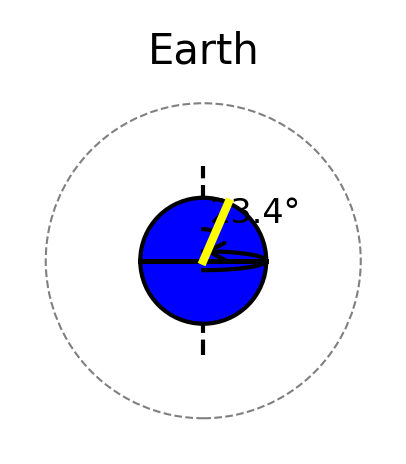
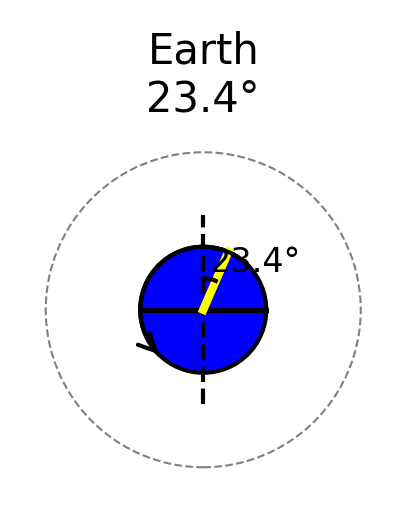
final exam review

diff --git a/python/project/spin_icons.py b/python/project/spin_icons.py
@@ -1,109 +1,179 @@
-""" My code is going to produce different spin icons based on the planets in the solar system
-feedback:
--make a 1.5x 1.5 in version and a 3 x 3 in version (done)
--make a black and white version and color version (done)
---(create and optional parameter for draw planet icon, called used color. that is default to true but when false turns off, uses only gray and black)
--don't include the rotational period
--indicate the planets orbit and the perpendicular from which the planetary tilt is measured
---{change planet orbit line to horizontal dashed line}
--indicate the rotational direction using a curved arrow around the equator
--mark the arc of swept out angle between perp the orbit and the pole, and label the angle there
--include digits to the tenth of the degree (ex: 23.4 degree sign){option, shift, 8 = degree)
---{use comments to identify what each block of code wants}
---{Use AI to get the fancy arrow patch to draw the curved arrow around the rotational axis}
---{Reduce angle to units place}
---{Fix arc marking angle, and rotational axis, so it relies out beyond the circle}
---{Make as simple as possible, avoid the yellow and angle thing, and fix angle label position to not have it be on top}
---{NO yellow or red lines, remove any unused comments/codes}
-
 """
+spin_icons.py
 
-__author__ = ["Betzaida Alcaide", "Maribel Moreno"]
+Final exam project script that visualizes planetary axial tilt, computes statistics,
+fits a quadratic model to tilt data, and solves a characteristic matrix equation.
+
+__author__ = "Betzaida Alcaide", "Maribel Moreno"
+Date: May 12
+"""
 
 import numpy as np
 import matplotlib.pyplot as plt
-
-# Extended planetary data including orbit and angular velocity
-planet_data = {
-    'mars': {'tilt': 25.2, 'a': 227.9e6, 'b': 227.9e6, 'omega': 360 / 24.6},
-    'earth': {'tilt': 23.4, 'a': 149.6e6, 'b': 149.6e6, 'omega': 360 / 24.0},
-    'pluto': {'tilt': 122.5, 'a': 5906.4e6, 'b': 5906.4e6, 'omega': 360 / 153.0},
-}
+from matplotlib.patches import FancyArrowPatch
+from scipy.stats import describe
+from numpy.polynomial.polynomial import polyfit
+from datetime import datetime
 
 
 def get_data():
+    """
+    __author__ = "Betzaida Alcaide"
+    Gives me the planet names and their tilt angles
+    """
+    planet_data = {
+        'mercury': {'tilt': 0.03},
+        'venus': {'tilt': 177.4},
+        'earth': {'tilt': 23.4},
+        'mars': {'tilt': 25.2},
+        'jupiter': {'tilt': 3.1},
+        'saturn': {'tilt': 26.7},
+        'uranus': {'tilt': 97.8},
+        'neptune': {'tilt': 28.3},
+    }
     return planet_data
 
 
-def draw_planet_icon(planet_name, planet_info, color=True, size=(3, 3), save_path=None, time=0):
+def compute_tilt_statistics(planet_data):
+    """
+    ___author__ = "Maribel Moreno"
+    Finds the average, max, min, and other stats from the tilt data
+    """
+    tilt_values = [info['tilt'] for info in planet_data.values()]
+    return describe(tilt_values)
+
+
+def fit_tilt_curve(planet_data):
+    """
+    ___author__ = "Betzaida Alcaide", "Maribel Moreno"
+    Fits a curve to the tilt data using a quadratic equation
+    """
+    tilts = [info['tilt'] for info in planet_data.values()]
+    indices = np.arange(len(tilts))
+    coeffs = polyfit(indices, tilts, deg=2)
+    return coeffs, indices, tilts
+
+
+def draw_planet_icon(planet_name, planet_info, color=True, size=(1.5, 1.5), save_path=None):
+    """
+    ___author__ = "Betzaida Alcaide", "Maribel Moreno"
+    Draws a planet, its orbit, and an arrow showing the tilt
+    """
     fig, ax = plt.subplots(figsize=size)
     ax.set_aspect('equal')
     ax.axis('off')
 
-    # Unpack parameters
-    tilt_angle = planet_info['tilt'] + planet_info['omega'] * time
+    tilt_angle = planet_info['tilt']
     angle_rad = np.radians(tilt_angle)
     radius = 1.0
     orbit_radius = 2.5
 
-    # Colors
-    planet_color = 'gray' if not color else {'earth': 'blue', 'mars': 'red', 'pluto': 'brown'}.get(planet_name, 'gray')
+    planet_color = {
+        'mercury': 'darkgray', 'venus': 'gold', 'earth': 'blue', 'mars': 'red',
+        'jupiter': 'orange', 'saturn': 'goldenrod', 'uranus': 'lightblue', 'neptune': 'darkblue'
+    }.get(planet_name, 'gray')
 
-    # Draw orbit ellipse
-    orbit = plt.Circle((0, 0), orbit_radius, fill=False, color='gray', linestyle='--', lw=0.5)
+    orbit = plt.Circle((0, 0), orbit_radius, fill=False, linestyle='--', edgecolor='gray', lw=0.5)
     ax.add_patch(orbit)
 
-    # Draw planet
-    circle = plt.Circle((0, 0), radius, color=planet_color, ec='black', zorder=2)
-    ax.add_patch(circle)
+    planet = plt.Circle((0, 0), radius, color=planet_color, ec='black', zorder=2)
+    ax.add_patch(planet)
 
-    # Equator
-    ax.plot([-radius, radius], [0, 0], color='black', lw=1.2, zorder=3)
-
-    # Perpendicular axis (from orbit)
-    ax.plot([0, 0], [-1.5 * radius, 1.5 * radius], color='black', lw=1.0, linestyle='--', zorder=1)
-
-    # Tilt axis
+    # This arrow shows the direction of the tilt
     x_tilt = radius * np.sin(angle_rad)
     y_tilt = radius * np.cos(angle_rad)
-    ax.plot([0, x_tilt], [0, y_tilt], color='yellow' if color else 'black', lw=2.0, zorder=4)
+    arrow = FancyArrowPatch(posA=(0, 0), posB=(x_tilt, y_tilt),
+                            arrowstyle='->', color='yellow', lw=2.0,
+                            mutation_scale=15)
+    ax.add_patch(arrow)
 
-    # Arc for tilt angle
+    # This arc shows the size of the tilt angle
     arc_radius = 0.5
-    arc_angles = np.linspace(0, angle_rad, 50)
+    arc_angles = np.linspace(0, angle_rad, num=50)
     arc_x = arc_radius * np.sin(arc_angles)
     arc_y = arc_radius * np.cos(arc_angles)
     ax.plot(arc_x, arc_y, color='black', lw=1.0)
 
-    # Angle label
+    # This label adds the tilt value on the arc
     label_x = arc_radius * np.sin(angle_rad / 2)
     label_y = arc_radius * np.cos(angle_rad / 2)
     ax.text(label_x, label_y, f"{tilt_angle:.1f}°", fontsize=8, ha='left', va='bottom')
 
-    # Rotation arrow along equator (semicircular above planet)
-    theta = np.linspace(-np.pi / 2, np.pi / 2, 100)
-    r = radius
-    arrow_x = r * np.cos(theta)
-    arrow_y = 0.15 * radius * np.sin(theta)  # slight vertical offset to appear above the equator
-    ax.plot(arrow_x, arrow_y, color='black', lw=1.0)
-    ax.annotate('', xy=(arrow_x[-1], arrow_y[-1]), xytext=(arrow_x[-2], arrow_y[-2]),
-                arrowprops=dict(arrowstyle="->", lw=1.0))
+    # Adds the date to the bottom of the image
+    timestamp = datetime.now().strftime("Created on %Y-%m-%d")
+    ax.text(-2.4, -2.6, timestamp, fontsize=6, ha='left')
 
-    # Label
-    ax.set_title(planet_name.capitalize(), fontsize=10)
+    ax.set_title(f"{planet_name.capitalize()}\n{tilt_angle:.1f}°", fontsize=10)
 
     if save_path:
         plt.savefig(save_path, bbox_inches='tight', dpi=300)
     plt.close()
 
+def matrix_demo():
+    """
+    ___author__ = "Maribel Moreno"
+    Builds a 10x10 matrix like in the matrix assignment, solves for eigenvalues and eigenvectors, and prints the results
+    """
+    matrix_dimension = 10
+    n = matrix_dimension
 
-def run_all():
+    main_diag = 2 * np.ones(n)
+    off_diag = -1 * np.ones(n - 1)
+
+    H = np.diag(main_diag) + np.diag(off_diag, k=1) + np.diag(off_diag, k=-1)
+    scaling_factor = 1 / (2 * (1 / (n + 1)) ** 2)
+    H = scaling_factor * H
+
+    eigenvalues, eigenvectors = np.linalg.eig(H)
+
+    # Sorts them
+    i_sorted = np.argsort(eigenvalues)
+    eigenvalues = eigenvalues[i_sorted]
+    eigenvectors = eigenvectors[:, i_sorted]
+
+    print("\nEigenvalues (lowest to highest):\n", eigenvalues)
+    print("\nEigenvectors (each column matches eigenvalue above):\n", eigenvectors)
+
+    return eigenvalues, eigenvectors
+
+
+
+def main():
     data = get_data()
+    """
+    __author__ = "Betzaida Alcaide"
+    """
+    # Shows tilt stats in the terminal
+    stats = compute_tilt_statistics(data)
+    print("\nTilt Statistics:", stats)
+
+    # Fit a curve to the tilts
+    coeffs, x_vals, y_vals = fit_tilt_curve(data)
+    fit_x = np.linspace(0, len(x_vals) - 1, 100)
+    fit_y = sum(c * fit_x**i for i, c in enumerate(coeffs))
+
+    # Make the plot with data and fit curve
+    plt.figure()
+    plt.plot(x_vals, y_vals, 'o', label='Data')
+    plt.plot(fit_x, fit_y, '-', label='Quadratic Fit')
+    plt.title('Axial Tilt Fit')
+    plt.xlabel('Planet Index')
+    plt.ylabel('Tilt (°)')
+    plt.legend()
+    plt.grid(True)
+    plt.tight_layout()
+    plt.savefig("tilt_fit_plot.png")
+    plt.close()
+
+    # Make planet pictures
     for planet, info in data.items():
-        for size in [(3, 3), (1.5, 1.5)]:
-            draw_planet_icon(planet, info, color=True, size=size, save_path=f"{planet}_color_{size[0]}x{size[1]}.png")
-            draw_planet_icon(planet, info, color=False, size=size, save_path=f"{planet}_bw_{size[0]}x{size[1]}.png")
+        draw_planet_icon(planet, info, save_path=f"{planet}_tilt.png")
+
+    # Show matrix answers in the terminal
+    eigenvalues, eigenvectors = matrix_demo()
+    print("\nEigenvalues:\n", eigenvalues)
+    print("\nEigenvectors:\n", eigenvectors)
 
 
-if __name__ == '__main__':
-    run_all()
+if __name__ == "__main__":
+    main()

diff --git a/python/project/module_test.py b/python/project/module_test.py
@@ -1,0 +1,20 @@
+import os
+
+modules = [ 'spin_icons' ]
+
+for module in modules:
+    filename = module + '.py'
+    if not os.path.exists(filename):
+        print(f"Creating empty placeholder for: {filename}")
+        with open(filename, 'w') as file:
+            file.write('')
+
+    print(f"\n Running test for: {filename} ")
+    with open(filename) as module_file:
+        try:
+            exec(module_file.read())
+            print(f" Test Passed: {filename} \n")
+        except Exception as e:
+            print(f" Test Failed: {filename} ")
+            print(e)
+            print("\n")
